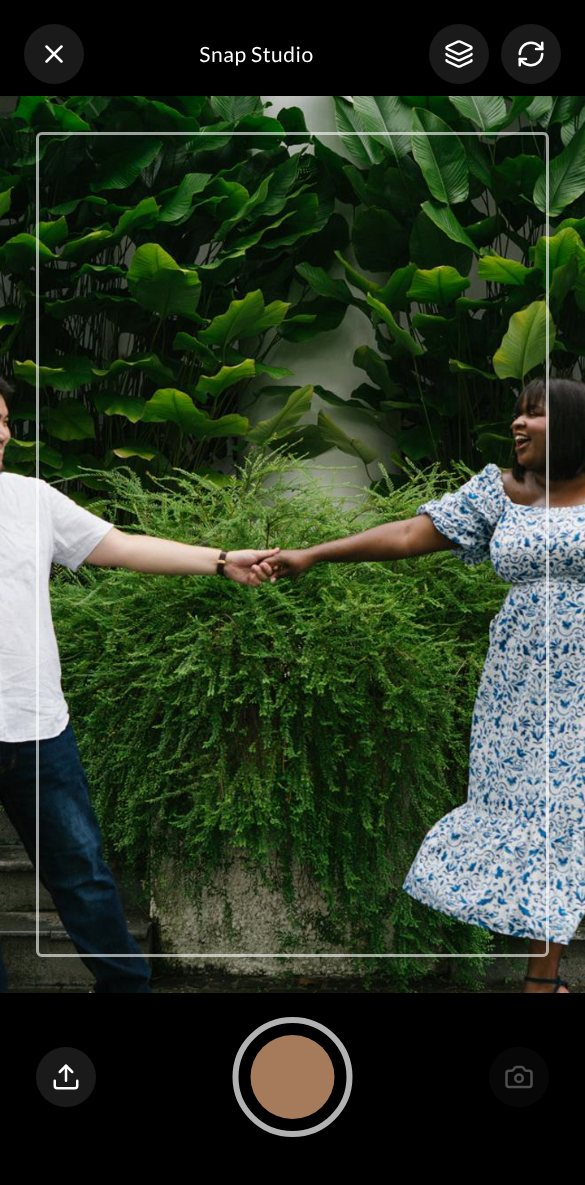
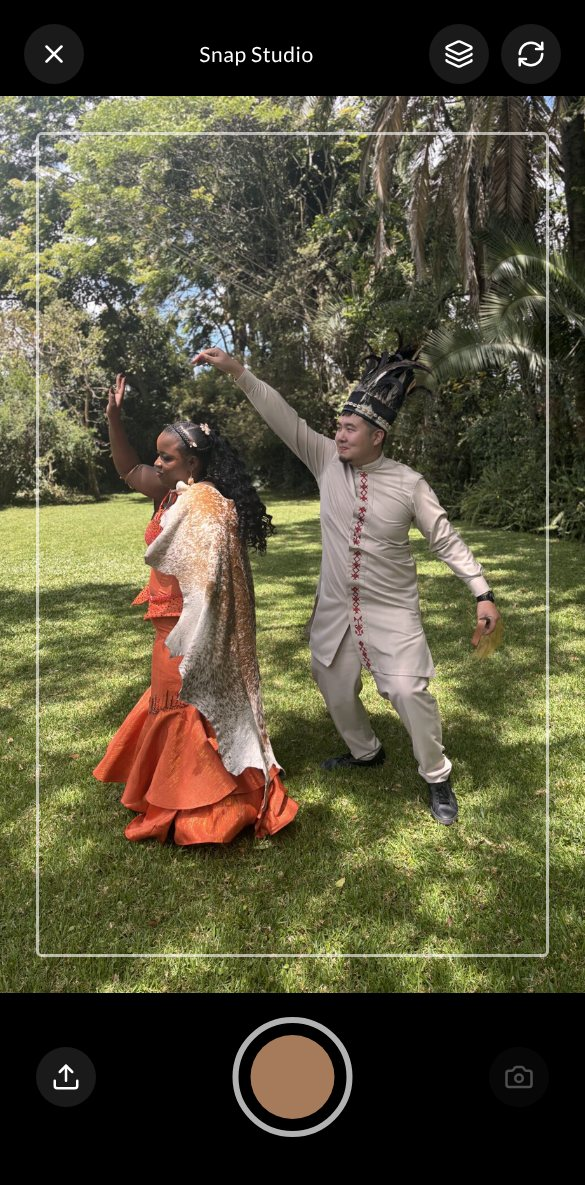
Guest tour: Moments scene uses the couple's event photos
Snap Studio's camera feed, the Captured Moments tray and the open story now
show photos from the Ayie and the wedding instead of the photoshoot demo
images. Render output folders are ignored.

Claude-Session: https://claude.ai/code/session_01ABj656bzccx1uwGpAGVhx1

diff --git a/docs/guest-tour/README.md b/docs/guest-tour/README.md
@@ -29,7 +29,9 @@ Each chapter is one bar of music (2.5 s), so every cut lands on a downbeat.
 
 ## Regenerating
 
-The screens come from the real app with demo data: the backend on SQLite (`php artisan migrate --seed`, then `SettingsSeeder`), a guest with code `GRACE26`, a few polaroids from `frontend/public/DnT-photoshoot` and live updates, and the frontend dev server on port 5180.
+The screens come from the real app with demo data: the backend on SQLite (`php artisan migrate --seed`, then `SettingsSeeder`), a guest with code `GRACE26`, a few polaroids and live updates, and the frontend dev server on port 5180.
+
+The Moments scene (`snap_1`, `tray`, `storyB_1`) uses the couple's own photos from the Ayie and the wedding: they were posted as demo stories (Grace Muthoni, Kevin Wafula, Amina Odhiambo, the couple, dated 14 November) and one of them is the Snap Studio camera feed (`cam.y4m`). With `wedding_phase` set to `before` locally, so the invite still shows Snap and the pass.
 
 `tools/capture.cjs` writes every screen into `screens/` (585×1185 JPEGs: an iPhone screen below its status bar, which the tour draws) and `screens/taps.json`, where each tapped button sits. It feeds a photo to the camera as a fake webcam (`cam.y4m`, made with ffmpeg) so Snap Studio shows a live view. For the Gifts scene, set placeholder Pay Bill numbers in the local settings (the video shows 123456 / 0000000000) and clear `mpesa_payments` first, since each M-Pesa code is recorded once.
 
